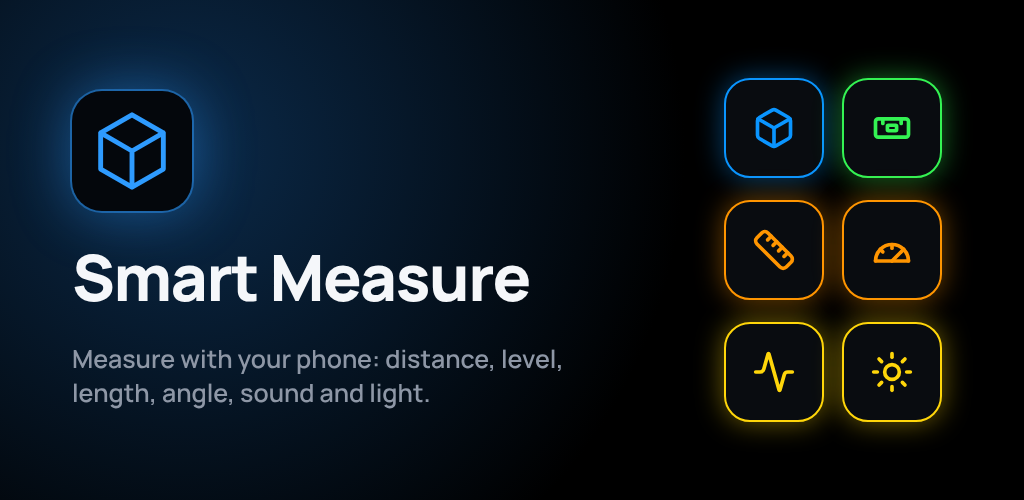
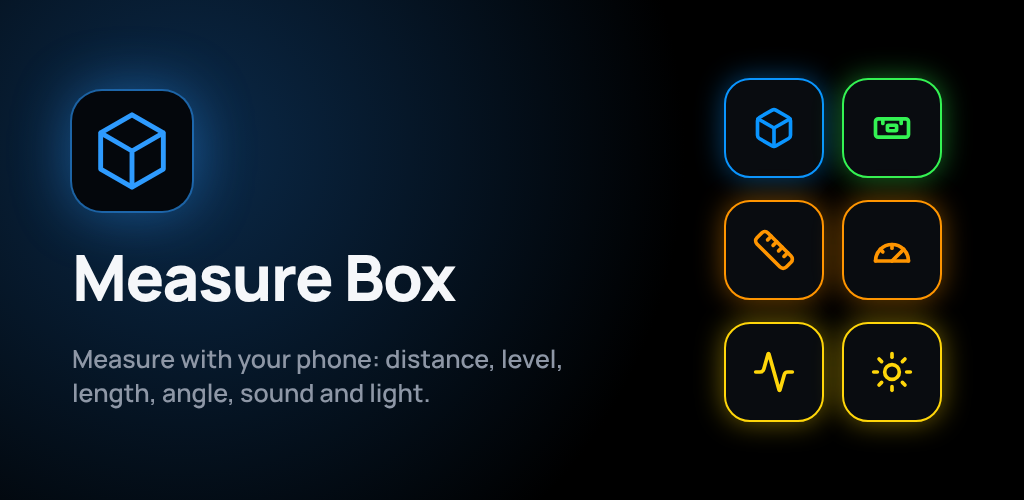
Smart Measure → Ölçü Kutusu / Measure Box: mağaza ve uygulama adı
Play'de "Smart Measure" adında, aynı yöntemle çalışan, 10 milyondan fazla indirilmiş başka bir uygulama
(kr.sira.measure) olduğu için uygulamanın adı değişti (DEGERLENDIRME.md §0; sahip uzman önerisiyle devam
etmeyi seçti). İki ad için Play'de aynı adda uygulama bulunamadı.

- Mağaza: tr-TR "Ölçü Kutusu – Terazi, Cetvel", en-US "Measure Box – Level & Ruler"; metinler, PLAY-YAYIN.md,
  fiyatlandırma, gizlilik ve tanıtım sayfası; görseller yeni adla yeniden üretildi.
- Uygulama: telefondaki ad Türkçe telefonda "Ölçü Kutusu" (values-tr), ötekilerde "Measure Box"; ana ekran
  ve Ayarlar başlığı artık sabit metin değil app_name dizesi; sayfa başlığı dile göre; pano etiketi
  R.string.app_name.
- Paket adı (com.poyrazworkshop.smartmeasure), klasör, play.mjs anahtarı ve artifact adları değişmedi.
  AdMob'daki uygulama "Smart Measure" adıyla açılmıştı; kimlikler aynı kalır.
- docs/kucuk-uygulamalar-play.md: "adı kesinleşmeden oluşturma" notu kalktı; Play'de yeni adla oluşturulur.

Sınama: node --test smart-measure/test (42/42), tarayıcı denemesi 208 görünüm temiz, yerelde
assembleRelease; aapt2: application-label "Measure Box", application-label-tr "Ölçü Kutusu".

Claude-Session: https://claude.ai/code/session_01LeCPYXBFPds4HQvnTvMmYz

Changed region(s): [[0.0625, 0.51, 0.5312, 0.6]]

diff --git a/smart-measure/www/js/lang/tr.js b/smart-measure/www/js/lang/tr.js
@@ -1,6 +1,6 @@
-// Smart Measure — Türkçe. Anahtarlar özgün uygulamanın dize kaynaklarının adlarıdır (en.js ile aynı). Yer tutucular {1}, {2}…
+// Ölçü Kutusu (İngilizcesi Measure Box; özgün adı "Smart Measure") — Türkçe. Anahtarlar özgün uygulamanın dize kaynaklarının adlarıdır (en.js ile aynı). Yer tutucular {1}, {2}…
 export default {
-  app_name: "Smart Measure",
+  app_name: "Ölçü Kutusu",
   cm_approx_note: "Yaklaşık değer: kameranın yönü ve telefonu tuttuğunuz yükseklikle hesaplanır. Tipik doğruluk %3–10; düz bir zemin ve aynı yükseklikte sabit tutulan bir telefon varsayılır.",
   cm_btn_base: "Taban Seç",
   cm_btn_edge: "Kenar Seç",
@@ -208,7 +208,7 @@ export default {
   nav_home: "Ana Sayfa",
   nav_tools: "Tüm Araçlar",
   pr_active: "Reklamsız sürüm açık",
-  pr_active_text: "Smart Measure'ı desteklediğiniz için teşekkürler. Reklam gösterilmiyor.",
+  pr_active_text: "Ölçü Kutusu'nu desteklediğiniz için teşekkürler. Reklam gösterilmiyor.",
   pr_failed: "Satın alma tamamlanamadı.",
   pr_feat_banner: "Altta reklam bandı yok",
   pr_feat_full: "Tam ekran reklam yok",
@@ -373,7 +373,7 @@ export default {
   sn_unit_dbfs: "dBFS(A)",
   st_acc_camera_text: "Mesafe, yükseklik ve genişlik, kameranın yönü ve telefonu tuttuğunuz yükseklikten trigonometriyle hesaplanır. Tipik doğruluk %3–10'dur, ufka yakın noktalarda daha kötüdür. Düz bir zemin ve aynı yükseklikte sabit tutulan bir telefon varsayılır. Her sonuç tahmini belirsizliğiyle gösterilir.",
   st_acc_camera_title: "Kamerayla ölçüm",
-  st_acc_intro: "Smart Measure telefonunuzun sensörleriyle ölçer. Bunlar iyidir ama laboratuvar aleti değildir. Ne bekleyeceğiniz ve her araçtan en iyi sonucu nasıl alacağınız burada.",
+  st_acc_intro: "Ölçü Kutusu telefonunuzun sensörleriyle ölçer. Bunlar iyidir ama laboratuvar aleti değildir. Ne bekleyeceğiniz ve her araçtan en iyi sonucu nasıl alacağınız burada.",
   st_acc_level_text: "Genellikle ±0,2° ile ±0,5°. Düz bir yüzeyde ters çevirme yöntemiyle kalibre edin (telefonu yerinde 180° döndürün); okurken telefonu sabit tutun.",
   st_acc_level_title: "Su terazisi",
   st_acc_light_text: "Ortam ışığı sensörleri telefonlar arasında yaklaşık %20–30 farklı olabilir ve ekran camının arkasındadır. Değeri bir alet okuması değil, bir gösterge olarak kullanın.",
@@ -422,7 +422,7 @@ export default {
   st_language_tr: "Türkçe",
   st_licenses: "Açık kaynak lisansları",
   st_licenses_text: "Manrope yazı tipi (SIL Open Font License 1.1). Lucide ikonları (ISC lisansı). Capacitor, @capacitor-community/admob (MIT lisansı) ve @capgo/native-purchases (Mozilla Public License 2.0). AndroidX (Apache License 2.0). Google Mobile Ads SDK, User Messaging Platform ve Google Play Faturalandırma (Google koşulları).",
-  st_premium_headline: "Reklamsız Smart Measure",
+  st_premium_headline: "Reklamsız Ölçü Kutusu",
   st_premium_text: "Tüm araçlar ücretsizdir. Ücretsiz sürüm altta küçük bir reklam bandı ve arada bir, bir duraklamada tam ekran reklam gösterir. Reklamsız abonelik ikisini de kaldırır. Hesap gerekmez.",
   st_premium_title: "Premium",
   st_privacy_policy: "Gizlilik politikası",

diff --git a/smart-measure/www/js/lang/en.js b/smart-measure/www/js/lang/en.js
@@ -1,8 +1,8 @@
-// Smart Measure — English. Keys are the original app's string resource names (cm_ camera, hm_ home, lb_ library,
+// Measure Box (Turkish: Ölçü Kutusu; originally "Smart Measure") — English. Keys are the original app's string resource names (cm_ camera, hm_ home, lb_ library,
 // lv_ level, rl_ ruler/protractor, sn_ sensors, st_ settings) plus pr_ (ad-free subscription) and common_.
 // Placeholders: {1}, {2}… One key per line.
 export default {
-  app_name: "Smart Measure",
+  app_name: "Measure Box",
   cm_approx_note: "Approximate: worked out from the camera direction and the height the phone is held at. Typical accuracy is 3–10 %; a flat floor and a phone held still at the same height are assumed.",
   cm_btn_base: "Select base",
   cm_btn_edge: "Select edge",
@@ -210,7 +210,7 @@ export default {
   nav_home: "Home",
   nav_tools: "All tools",
   pr_active: "Ad-free is on",
-  pr_active_text: "Thank you for supporting Smart Measure. No ads are shown.",
+  pr_active_text: "Thank you for supporting Measure Box. No ads are shown.",
   pr_failed: "The purchase could not be completed.",
   pr_feat_banner: "No banner at the bottom",
   pr_feat_full: "No full-screen ads",
@@ -375,7 +375,7 @@ export default {
   sn_unit_dbfs: "dBFS(A)",
   st_acc_camera_text: "Distance, height and width are worked out by trigonometry from the camera direction and the height you hold the phone at. Typical accuracy is 3–10 %, worse for points close to the horizon. A flat floor and a phone held still at the same height are assumed. Every result is shown with its estimated uncertainty.",
   st_acc_camera_title: "Camera measurement",
-  st_acc_intro: "Smart Measure measures with the sensors of your phone. They are good, but they are not laboratory instruments. Here is what to expect and how to get the best from each tool.",
+  st_acc_intro: "Measure Box measures with the sensors of your phone. They are good, but they are not laboratory instruments. Here is what to expect and how to get the best from each tool.",
   st_acc_level_text: "Typically ±0.2° to ±0.5°. Calibrate on a flat surface with the flip method (turn the phone 180° on the spot); keep the phone still while reading.",
   st_acc_level_title: "Spirit level",
   st_acc_light_text: "Ambient light sensors differ by roughly 20–30 % between phones and sit behind the screen glass. Use the value as a guide, not as an instrument reading.",
@@ -424,7 +424,7 @@ export default {
   st_language_tr: "Türkçe",
   st_licenses: "Open-source licences",
   st_licenses_text: "Manrope typeface (SIL Open Font License 1.1). Lucide icons (ISC licence). Capacitor, @capacitor-community/admob (MIT licence) and @capgo/native-purchases (Mozilla Public License 2.0). AndroidX (Apache License 2.0). Google Mobile Ads SDK, User Messaging Platform and Google Play Billing (Google terms).",
-  st_premium_headline: "Smart Measure without ads",
+  st_premium_headline: "Measure Box without ads",
   st_premium_text: "Every tool is free. The free version shows a small banner at the bottom and, now and then at a pause, a full-screen ad. The ad-free subscription removes both. No account is needed.",
   st_premium_title: "Premium",
   st_privacy_policy: "Privacy policy",

diff --git a/app/smart-measure/gizlilik.html b/app/smart-measure/gizlilik.html
@@ -3,16 +3,16 @@
 <head>
 <meta charset="utf-8">
 <meta name="viewport" content="width=device-width, initial-scale=1">
-<title>Gizlilik Politikası – Smart Measure</title>
+<title>Gizlilik Politikası – Ölçü Kutusu (Measure Box)</title>
 <link rel="stylesheet" href="../legal.css">
 </head>
 <body>
 <main>
-<nav><a href="index.html">Smart Measure</a><a href="gizlilik.html">Gizlilik Politikası</a><a href="#en">English</a></nav>
+<nav><a href="index.html">Ölçü Kutusu</a><a href="gizlilik.html">Gizlilik Politikası</a><a href="#en">English</a></nav>
 <h1>Gizlilik Politikası</h1>
 <p class="date">Son güncelleme: 27 Ekim 2026</p>
 
-<p>Bu politika, <b>Poyraz Workshop</b> ("biz") tarafından Android için yayınlanan <b>Smart Measure</b> uygulamasının
+<p>Bu politika, <b>Poyraz Workshop</b> ("biz") tarafından Android için yayınlanan <b>Ölçü Kutusu</b> (İngilizce adı <b>Measure Box</b>) uygulamasının
 ("Uygulama") hangi verileri nasıl işlediğini açıklar. Uygulama telefonunuzun sensörleriyle ölçer: su terazisi, ekran
 cetveli, açıölçer, kamerayla mesafe ve yükseklik ölçümü, ses ölçer ve ışık ölçer. Hesap yoktur, sunucumuz yoktur;
 ölçümleriniz bize gelmez. Uygulama ücretsizdir ve Google AdMob reklamları gösterir (bkz. 4. bölüm); isteğe bağlı
@@ -90,7 +90,7 @@ reklam verileri için Google'ın yukarıdaki denetimleri geçerlidir. Soruların
 
 <h2 id="en">Privacy Policy (English)</h2>
 <p class="date">Last updated: 27 October 2026</p>
-<p><b>Smart Measure</b> by <b>Poyraz Workshop</b> measures with your phone's sensors: a spirit level, a screen ruler, a
+<p><b>Measure Box</b> (Turkish: Ölçü Kutusu) by <b>Poyraz Workshop</b> measures with your phone's sensors: a spirit level, a screen ruler, a
 protractor, distance and height by camera, a sound meter and a light meter. There is no account and we have no server.
 <b>On your device only:</b> your history of copied or finished measurements (up to 200), favorites, settings,
 calibrations (level sensor offset, ruler scale, sound meter offset, phone height), the last sound and light readings,

diff --git a/app/smart-measure/index.html b/app/smart-measure/index.html
@@ -3,14 +3,14 @@
 <head>
 <meta charset="utf-8">
 <meta name="viewport" content="width=device-width, initial-scale=1">
-<title>Smart Measure – Poyraz Workshop</title>
+<title>Ölçü Kutusu (Measure Box) – Poyraz Workshop</title>
 <link rel="stylesheet" href="../legal.css">
 </head>
 <body>
 <main>
 <nav><a href="gizlilik.html">Gizlilik Politikası</a><a href="gizlilik.html#en">Privacy Policy</a></nav>
 <p><img src="icon-192.png" alt="" width="96" height="96"></p>
-<h1>Smart Measure</h1>
+<h1>Ölçü Kutusu <small>(Measure Box)</small></h1>
 <p>Telefonun sensörleriyle ölçüm araçları: su terazisi (yüzey, çizgi, dikey), ekran cetveli ve açıölçer, kamerayla
 mesafe, yükseklik ve genişlik, ses ölçer ve ışık ölçer. Her aracın doğruluğu uygulamada yazılıdır; kalibrasyon merkezinde
 her biri telefonuna göre ayarlanır. Kamera görüntüsü ve mikrofon sesi yalnız telefonda işlenir, kaydedilmez. Ücretsiz,

diff --git a/smart-measure/www/index.html b/smart-measure/www/index.html
@@ -6,14 +6,14 @@
 <meta name="theme-color" content="#000000">
 <meta name="color-scheme" content="dark light">
 <meta http-equiv="Content-Security-Policy" content="default-src 'self'; script-src 'self'; style-src 'self' 'unsafe-inline'; img-src 'self' data: blob:; media-src 'self' blob: mediastream:; font-src 'self'; connect-src 'self'">
-<title>Smart Measure</title>
+<title>Measure Box</title>
 <link rel="icon" href="img/icon.svg">
 <link rel="stylesheet" href="css/app.css">
 <script src="js/tema-on.js"></script>
 </head>
 <body>
 <main id="app"></main>
-<nav id="nav" class="nav" aria-label="Smart Measure"></nav>
+<nav id="nav" class="nav" aria-label="Measure Box"></nav>
 <div id="banner-strip" aria-hidden="true"></div>
 <div id="toast" role="status" aria-live="polite"></div>
 <div id="layers"></div>

diff --git a/smart-measure/www/js/views/settings.js b/smart-measure/www/js/views/settings.js
@@ -81,7 +81,7 @@ export function render({ go, back, params }) {
   native.appInfo().then((i) => { version.textContent = i.versionName || ''; });
   const about = section('about', 'st_section_about',
     row('Crown', t('st_premium_title'), isPremium() ? t('pr_active') : null, () => go('premium')),
-    h('div', { class: 'row' }, icon('Info', 20), h('span', { class: 'row-text' }, h('span', { text: 'Smart Measure' })), version),
+    h('div', { class: 'row' }, icon('Info', 20), h('span', { class: 'row-text' }, h('span', { text: t('app_name') })), version),
     row('Sparkles', t('st_developer'), 'Poyraz Workshop'),
     row('ExternalLink', t('st_contact'), EMAIL, () => native.openUrl(`mailto:${EMAIL}`)),
     row('ExternalLink', 'GeoTerva', 'geoterva.com', () => native.openUrl('https://geoterva.com')),

diff --git a/smart-measure/www/js/views/home.js b/smart-measure/www/js/views/home.js
@@ -47,7 +47,7 @@ export function render({ go }) {
   const advice = h('p', { class: 'muted small', text: '' });
 
   const el = h('div', { class: 'screen' },
-    topbar({ title: 'Smart Measure', sub: t('hm_home_subtitle'), lead: logo, actions: [more] }),
+    topbar({ title: t('app_name'), sub: t('hm_home_subtitle'), lead: logo, actions: [more] }),
     h('div', { class: 'hero' }, icon('Sparkles', 24), h('p', { text: t('hm_home_banner') })),
     card('blue', 'Box', t('hm_ar_title'), t('hm_ar_subtitle'), () => go(`ar?mode=${S.ar.mode}`), modes),
     card('green', 'Level', t('hm_level_title'), t('hm_level_subtitle'), () => go('level'), h('div', { class: 'live' }, tiltVal, tiltSub)),

diff --git a/smart-measure/www/css/app.css b/smart-measure/www/css/app.css
@@ -1,4 +1,4 @@
-/* Smart Measure — görünüm. Renkler özgün uygulamanın iki paletinden (koyu: referans tasarım, açık: aynı paletin açık
+/* Ölçü Kutusu (Measure Box) — görünüm. Renkler özgün uygulamanın iki paletinden (koyu: referans tasarım, açık: aynı paletin açık
    karşılığı; özgün sürümde "henüz geliştiriliyor" diye işaretliydi, burada bütün ekranlarda tamamlandı).
    Araç renkleri: su terazisi yeşil, kamera mavi, cetvel/açıölçer turuncu, ses/ışık sarı. */
 

diff --git a/smart-measure/www/js/app.js b/smart-measure/www/js/app.js
@@ -102,11 +102,13 @@ if (darkQuery && darkQuery.addEventListener) darkQuery.addEventListener('change'
 
 export function applyLanguage() {
   setLang(S.settings.language);
+  document.title = t('app_name');
   render();
 }
 
 // ---- başlangıç
 setLang(S.settings.language);
+document.title = t('app_name');
 applyTheme();
 if (!window.history.state) window.history.replaceState({ d: 0 }, '', location.hash || '#/home');
 window.addEventListener('popstate', () => render());

diff --git a/smart-measure/android/app/src/main/java/com/poyrazworkshop/smartmeasure/OlcerPlugin.java b/smart-measure/android/app/src/main/java/com/poyrazworkshop/smartmeasure/OlcerPlugin.java
@@ -31,7 +31,7 @@ import org.json.JSONArray;
 import org.json.JSONObject;
 
 /**
- * Smart Measure'ın telefon tarafı ("Olcer"): WebView'in güvenilir veremediği sensörler (yerçekimi / ivmeölçer,
+ * Ölçü Kutusu'nun (Measure Box) telefon tarafı ("Olcer"): WebView'in güvenilir veremediği sensörler (yerçekimi / ivmeölçer,
  * dönme vektörü, ortam ışığı), mikrofonla ses düzeyi (SesOlcer), ekranın fiziksel piksel yoğunluğu (cetvel), kamera ve
  * mikrofon izinleri, pano, paylaşma, bağlantı açma, sistem çubukları ve ekranı açık tutma. Ağ kullanmaz.
  * Olaylar: "yercekimi" {x,y,z,t,kaynak}, "yonelim" {m: 9 sayı, t, kaynak}, "isik" {lux,t}, "ses" {hizli, blok, tepe,
@@ -377,7 +377,7 @@ public class OlcerPlugin extends Plugin {
         String metin = call.getString("metin", "");
         getBridge().executeOnMainThread(() -> {
             ClipboardManager cb = (ClipboardManager) getContext().getSystemService(Context.CLIPBOARD_SERVICE);
-            if (cb != null) cb.setPrimaryClip(ClipData.newPlainText("Smart Measure", metin));
+            if (cb != null) cb.setPrimaryClip(ClipData.newPlainText(getContext().getString(R.string.app_name), metin));
             call.resolve();
         });
     }

diff --git a/smart-measure/magaza/PLAY-YAYIN.md b/smart-measure/magaza/PLAY-YAYIN.md
@@ -1,9 +1,9 @@
-# Smart Measure — Google Play'e ilk yayın
+# Ölçü Kutusu (Measure Box) — Google Play'e ilk yayın
 
 Hesap: **Poyraz Workshop** (doğrudan **Üretim**). Reklam hesabı: **AdMob, mahmuttari@gmail.com** (yayıncı
 `pub-2417242373034448`). Paket: `com.poyrazworkshop.smartmeasure`. Dört küçük uygulama (Unitica, Calqora, Kıble Bul,
-Smart Measure) **tek tarayıcı oturumunda** sırayla yapılır: ortak akış
-[`../../docs/kucuk-uygulamalar-play.md`](../../docs/kucuk-uygulamalar-play.md); bu dosya yalnız Smart Measure'a özgü
+Ölçü Kutusu) **tek tarayıcı oturumunda** sırayla yapılır: ortak akış
+[`../../docs/kucuk-uygulamalar-play.md`](../../docs/kucuk-uygulamalar-play.md); bu dosya yalnız Ölçü Kutusu'na özgü
 bilgileri ve adımları verir. Düzen İz Haritası'nınkiyle aynıdır
 ([`../../iz-haritasi/magaza/PLAY-YAYIN.md`](../../iz-haritasi/magaza/PLAY-YAYIN.md)).
 
@@ -15,7 +15,7 @@ bilgileri ve adımları verir. Düzen İz Haritası'nınkiyle aynıdır
 
 | Alan | Değer |
 |---|---|
-| Uygulama adı (mağaza) | `Smart Measure – Ölçüm Araçları` (30 karakter); en-US `Smart Measure – Level & Ruler` (29); telefondaki ad `Smart Measure` |
+| Uygulama adı (mağaza) | `Ölçü Kutusu – Terazi, Cetvel` (28 karakter); en-US `Measure Box – Level & Ruler` (27); telefondaki ad `Ölçü Kutusu` (Türkçe telefonda) / `Measure Box`. Özgün ad "Smart Measure" Play'de başka bir uygulamanın adı olduğu için kullanılmaz ([`DEGERLENDIRME.md`](DEGERLENDIRME.md) §0) |
 | Paket adı | `com.poyrazworkshop.smartmeasure` |
 | Varsayılan dil | Türkçe – tr-TR; çeviri en-US |
 | Uygulama / oyun · fiyat | **Uygulama** · **Ücretsiz** (indirme ücretsiz; AdMob reklamı + uygulama içi abonelik) |
@@ -30,24 +30,24 @@ bilgileri ve adımları verir. Düzen İz Haritası'nınkiyle aynıdır
 | Görseller | [`play/`](play/) ve `play/en-US/`: `simge-512.png` (32 bit), `tanitim-gorseli-1024x500.png`, `telefon-1…6-*.png` (1080×1920). Üretici `../araclar/magaza-gorsel.mjs` |
 | Sürüm notu | [`surum-notu.txt`](surum-notu.txt) (tr-TR), en-US `diller/en-US.md` › Sürüm notu |
 | Abonelik | `adfree` · temel planlar `monthly` (0,99 $) ve `yearly` (9,99 $) — [`fiyatlandirma.md`](fiyatlandirma.md) |
-| AdMob birimleri | uyarlanabilir **banner** (`Smart Measure banner`) + **geçiş reklamı** (`Smart Measure geçiş`); ödüllü ve açılış reklamı yok |
+| AdMob birimleri | uyarlanabilir **banner** + **geçiş reklamı** (AdMob'da 28 Ekim 2026'da `Smart Measure` adıyla açıldı; AdMob'daki ad kullanıcıya görünmez, istenirse `Ölçü Kutusu` diye değiştirilir); ödüllü ve açılış reklamı yok |
 | İzinler | Kamera, mikrofon (ön planda, araç açılınca), titreşim, internet (reklam ve Play). Kısıtlı izin yok, ayrı beyan istenmez |
 | İlk paket | `1.0.0 (1)`: CI'ın (`smartmeasure-android.yml`) gerçek AdMob kimlikleriyle derlediği imzalı AAB, artifact `SmartMeasure-aab` |
 | Yükleme anahtarı | Poyraz Workshop'un ortak yükleme anahtarı (GitHub secret `HAYALET_KEYSTORE_*`; ayrı anahtar istenirse `SMARTMEASURE_KEYSTORE_*`). SHA-1 `D0:88:A0:75:77:D1:89:B0:15:D4:A5:88:74:9A:1A:8C:C2:EE:56:99` |
 
 ## Talimat (bilgisayardaki Claude Code, `claude --chrome`)
 
-Kurallar ve onay paketi ortak dosyadadır. Smart Measure'a özgü olanlar:
+Kurallar ve onay paketi ortak dosyadadır. Ölçü Kutusu'na özgü olanlar:
 
-1. **AdMob:** uygulama adı `Smart Measure` (ya da sahibin seçtiği ad), birimler `Smart Measure banner` ve
-   `Smart Measure geçiş` (sıklık sınırı gerekmez: uygulama oturumun ilk 3 dakikasında göstermez, en sık 4 dakikada bir,
-   saatte en çok 6). AB mesajında Smart Measure için Türkçe + İngilizce yeterlidir (ortak mesaj öbür dilleri de içerir).
+1. **AdMob:** (yapıldı, 28 Ekim 2026) uygulama `Smart Measure` adıyla açıldı, birimler banner ve geçiş reklamı;
+   kimlikler `android/gradle.properties`'te (sıklık sınırı gerekmez: uygulama oturumun ilk 3 dakikasında göstermez, en sık 4 dakikada bir,
+   saatte en çok 6). AB mesajında Ölçü Kutusu için Türkçe + İngilizce yeterlidir (ortak mesaj öbür dilleri de içerir).
    Kimlikler `smart-measure/android/gradle.properties`'e, sonra `node smart-measure/araclar/kimlik.mjs` ve
    `node --test smart-measure/test/*.test.mjs` yeşil.
 2. **Play'de oluştur:** ad (tablodan ya da sahibin seçtiği), tr-TR, Uygulama, Ücretsiz.
 3. **İlk paket:** `SmartMeasure.aab` → paket `com.poyrazworkshop.smartmeasure`, sürüm `1.0.0 (1)`; sürüm notu
    `surum-notu.txt`; yalnız **Kaydet**.
-4. **Hizmet hesabı:** Smart Measure'ı da ekle (ortak dosyadaki izinler).
+4. **Hizmet hesabı:** Ölçü Kutusu'nu da ekle (ortak dosyadaki izinler).
 5. **Mağaza ayarları ve Uygulama içeriği:** kategori **Araçlar**; [`aciklamalar.md`](aciklamalar.md) tablosu
    (Reklamlar: Evet; Hedef kitle 13+; Reklam kimliği: Evet; IARC'de dijital satın alma: Evet; sağlık özelliği: yok).
    Veri güvenliği: `smart-measure/magaza/veri-guvenligi.csv`; önizlemede toplanan ve paylaşılan: Konum, Uygulama

diff --git a/docs/kucuk-uygulamalar-play.md b/docs/kucuk-uygulamalar-play.md
@@ -12,7 +12,7 @@ cevapları) kendi `magaza/PLAY-YAYIN.md` dosyasındadır:
 | Unitica | `unitica/` | `com.poyrazworkshop.unitica` | [`unitica/magaza/PLAY-YAYIN.md`](../unitica/magaza/PLAY-YAYIN.md) |
 | Calqora | `calqora/` | `com.poyrazworkshop.calqora` | [`calqora/magaza/PLAY-YAYIN.md`](../calqora/magaza/PLAY-YAYIN.md) |
 | Kıble Bul | `kible-bul/` | `com.poyrazworkshop.kiblebul` | [`kible-bul/magaza/PLAY-YAYIN.md`](../kible-bul/magaza/PLAY-YAYIN.md) |
-| Smart Measure | `smart-measure/` | `com.poyrazworkshop.smartmeasure` | [`smart-measure/magaza/PLAY-YAYIN.md`](../smart-measure/magaza/PLAY-YAYIN.md) |
+| Ölçü Kutusu (Measure Box; özgün adı Smart Measure) | `smart-measure/` | `com.poyrazworkshop.smartmeasure` | [`smart-measure/magaza/PLAY-YAYIN.md`](../smart-measure/magaza/PLAY-YAYIN.md) |
 
 - **Tarayıcı işleri** (AdMob uygulamaları ve reklam birimleri, Play'de uygulamaları oluşturma, ilk AAB'ler, Uygulama
   içeriği formları, abonelikler, hizmet hesabı izni) → bilgisayardaki **Claude Code** (`claude --chrome`).
@@ -29,7 +29,7 @@ kullanıcı bilgisayardaki oturuma yalnız şunu yazar:
 Metodolojinin D1 kuralı: geri dönüşü zor her kalem için kullanıcının **adıyla anan** bir onay satırı gerekir. Oturum
 başında aşağıdaki satır gösterilir; kullanıcı çıkarmak istediği kalemleri silip yazar. Onaylanmayan kalemde durulur.
 
-> ONAY: Unitica, Calqora, Kıble Bul ve Smart Measure için şu kutuları işaretlemene ve şu düğmelere basmana onay
+> ONAY: Unitica, Calqora, Kıble Bul ve Ölçü Kutusu için şu kutuları işaretlemene ve şu düğmelere basmana onay
 > veriyorum: 1. AdMob'da dört uygulamanın ve reklam birimlerinin oluşturulması; AB tüzüğü mesajının "Onayla" ve
 > "Yayınla"sı; 2. reklam kimliklerinin main'e push'u; 3. Play "Uygulama oluştur" formlarındaki beyan kutuları ve
 > "Uygulama oluştur" düğmesi (dört kez); 4. Play Uygulama İmzalama'nın Google'ın anahtarıyla kabulü ve ilk paketlerin
@@ -63,7 +63,7 @@ git checkout main && git pull
 
 ### 1. AdMob: dört uygulama, reklam birimleri, AB onay mesajı
 https://admob.google.com → **mahmuttari@gmail.com** hesabı (yayıncı kimliği `pub-2417242373034448` olmalı).
-Her uygulama için (sırayla Unitica, Calqora, Kıble Bul, Smart Measure):
+Her uygulama için (sırayla Unitica, Calqora, Kıble Bul, Ölçü Kutusu; AdMob'da `Smart Measure` adıyla açıldı):
 1. **Uygulamalar → Uygulama ekle** → Platform **Android** → "Uygulama desteklenen bir mağazada listeleniyor mu?"
    **Hayır** → uygulama adı (uygulamanın `PLAY-YAYIN.md` tablosundaki telefondaki ad) → ekle. Uygulama kimliğini not et
    (`ca-app-pub-2417242373034448~…`).
@@ -94,9 +94,11 @@ kimlikleriyle derlendi" uyarısı **olmamalı**). Her koşunun **Artifacts** bö
 `.aab`'yi çıkar (`Unitica.aab`, `Calqora.aab`, `KibleBul.aab`, `SmartMeasure.aab`).
 
 ### 2. Play Console: dört uygulamayı oluştur
-**Smart Measure'ın adı önce kesinleşmeli:** Play'de "Smart Measure" adında, aynı yöntemle çalışan, 10 milyondan fazla
-indirilmiş başka bir uygulama var (`smart-measure/magaza/DEGERLENDIRME.md` §0). Kullanıcının seçtiği ad depoya
-işlenmemişse Smart Measure'ı oluşturmadan dur ve sor; diğer üç uygulama bundan etkilenmez.
+**Smart Measure'ın mağaza adı Ölçü Kutusu oldu (28 Ekim 2026):** Play'de "Smart Measure" adında, aynı yöntemle
+çalışan, 10 milyondan fazla indirilmiş başka bir uygulama olduğu için (`smart-measure/magaza/DEGERLENDIRME.md` §0)
+Play'de **"Ölçü Kutusu – Terazi, Cetvel"** adıyla oluşturulur (en-US listesi "Measure Box – Level & Ruler"). Bu adla
+derlenmiş paket `Android (Smart Measure)` iş akışının bu değişiklikten sonraki koşusundan alınır (telefondaki ad
+"Ölçü Kutusu" / "Measure Box" görünmeli); "Smart Measure" adıyla Play'de uygulama oluşturma.
 
 https://play.google.com/console → **Poyraz Workshop** → her uygulama için "Uygulama oluştur": ad (mağaza adı, tablodan),
 varsayılan dil **Türkçe – tr-TR**, **Uygulama**, **Ücretsiz**. Beyan kutuları onay paketiyle işaretlenir; sonra
@@ -111,7 +113,7 @@ Her uygulama → Test ve yayınla → **Üretim** → Ülkeler/bölgeler: **tüm
 
 ### 4. Hizmet hesabına dört uygulamayı da ver
 Play Console ana menü → **Kullanıcılar ve izinler** → `notdefteri-play@handcalcbook.iam.gserviceaccount.com` →
-"Uygulama ekle" → **Unitica, Calqora, Kıble Bul, Smart Measure** → İz Haritası'ndaki izinlerin aynısı:
+"Uygulama ekle" → **Unitica, Calqora, Kıble Bul, Ölçü Kutusu** → İz Haritası'ndaki izinlerin aynısı:
 - Uygulama bilgilerini görüntüleme ve toplu raporları indirme
 - Mağaza girişini yönetme
 - Üretime sürüm yayınlama, cihaz hariç tutma ve Play Uygulama İmzalama'yı kullanma
